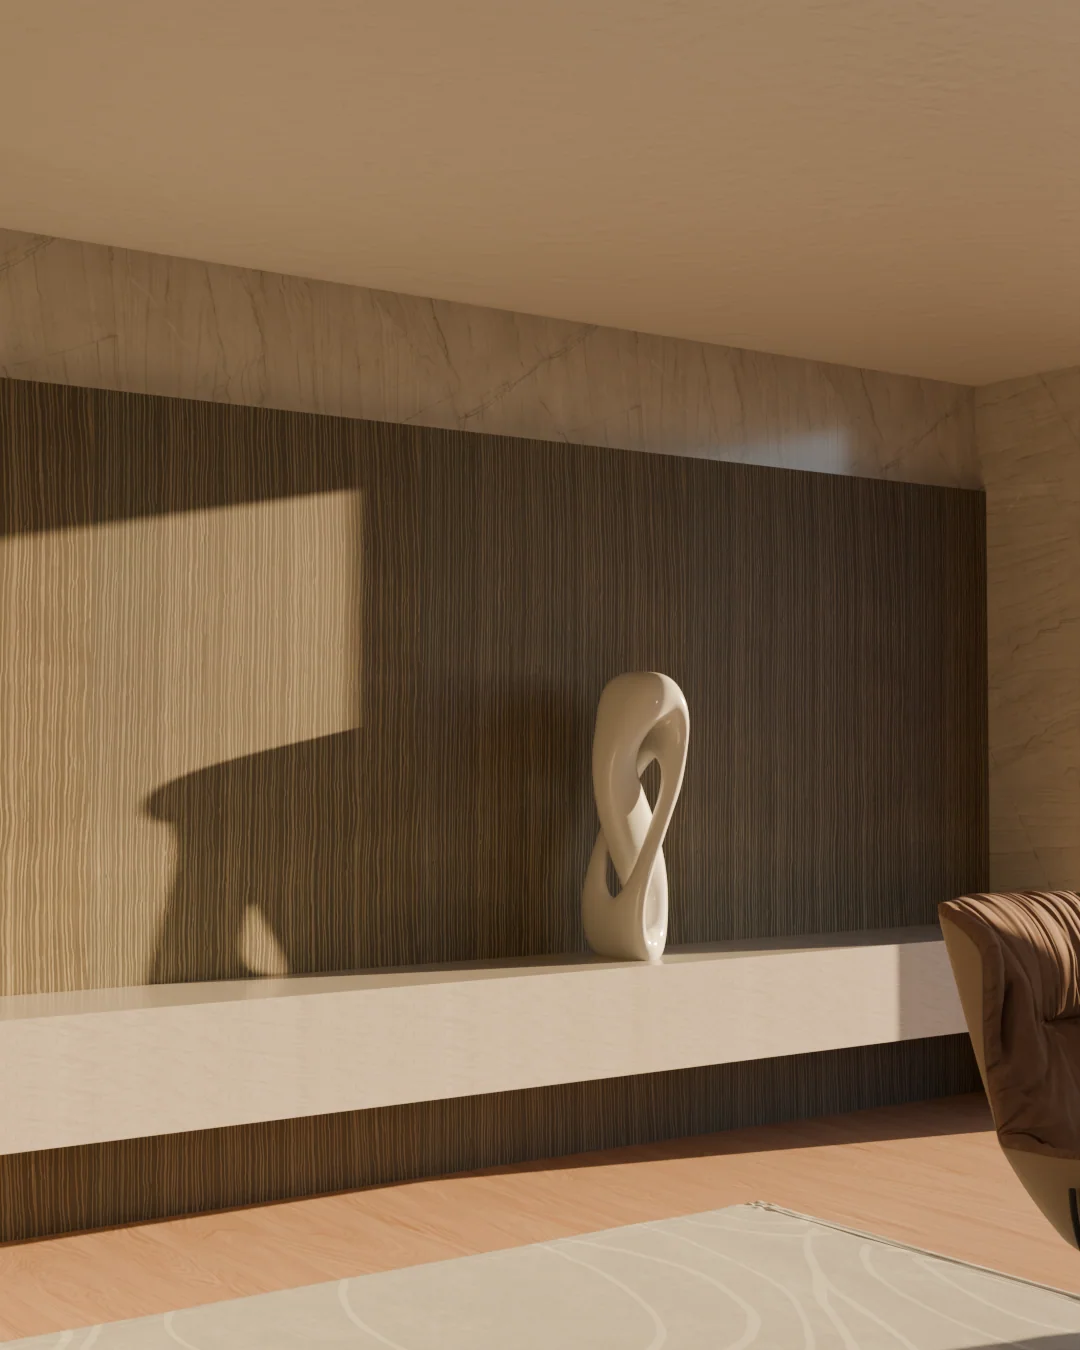
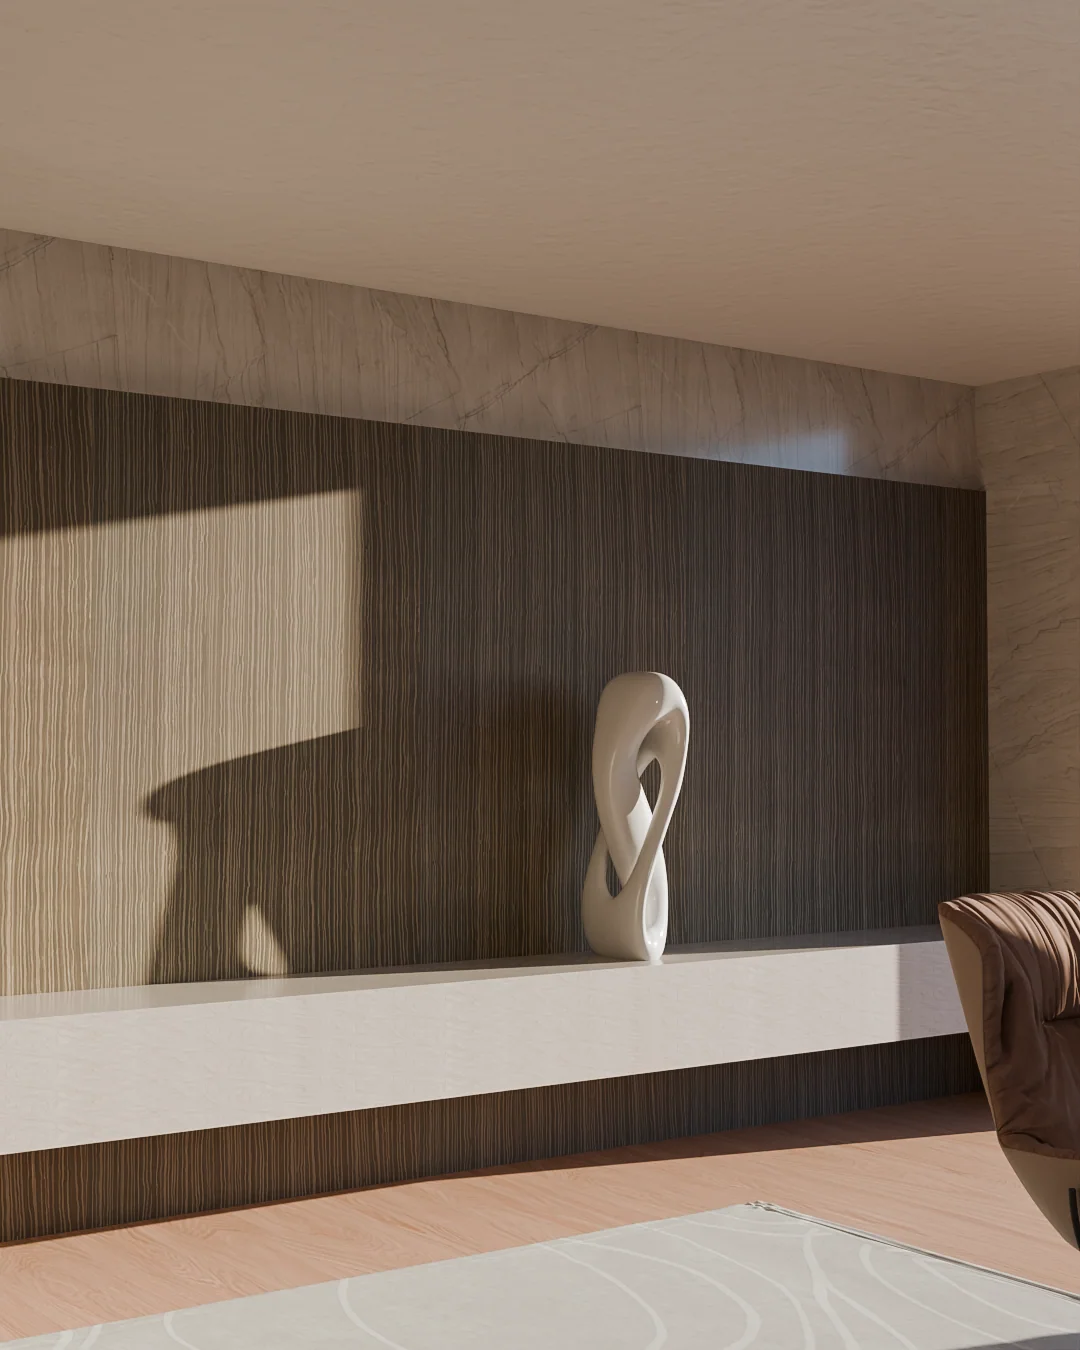
Publish five veneers and retouch Nero Ebony's room
Zurich Amethyst, Berlin Terra Line Oak, Berlin Ebony Charcoal, Athens
Mink Walnut and Athens Bark Walnut get their sheet and room views.
Berlin Nero Ebony keeps its sheet and has its three room images replaced
with the retouched renders; the manifest token moves with them, so a
visitor who saw the old ones is not served them from cache.

diff --git a/src/data.js b/src/data.js
@@ -78,6 +78,7 @@ export const PRODUCTS = [
     species: 'American Black Walnut (Juglans nigra)',
     idSpecies: 'Walnut Hitam Amerika (Juglans nigra)',
     image: '/assets/image/ATHENS BARK WALNUT.webp',
+    hiResImage: '/assets/hires/ATHENS BARK WALNUT.png',
     cutMethod: 'Rift-cut, grey-washed',
     cutMethod: 'Flat-cut',
     idCutMethod: 'Potongan flat',
@@ -553,6 +554,7 @@ export const PRODUCTS = [
     cut: 'Rift walnut',
     species: 'European Walnut (Juglans regia)',
     image: '/assets/image/ATHENS MINK WALNUT.webp',
+    hiResImage: '/assets/hires/ATHENS MINK WALNUT.png',
     cutMethod: 'Rift-cut',
     bestFor: 'Minimalist spaces, custom built-ins, high-end millwork',
     finish: 'Hand-rubbed oil',
@@ -1287,6 +1289,7 @@ export const PRODUCTS = [
     species: 'Macassar Ebony (Diospyros celebica)',
     idSpecies: 'Eboni Makassar (Diospyros celebica)',
     image: '/assets/image/BERLIN EBONY CHARCOAL.webp',
+    hiResImage: '/assets/hires/BERLIN EBONY CHARCOAL.png',
     cutMethod: 'Rift-cut, stained',
     idCutMethod: 'Potongan rift, diwarnai',
     bestFor: 'Modern corporate interiors, sleek casework, luxury residential',
@@ -1813,6 +1816,7 @@ export const PRODUCTS = [
     species: 'Engineered Wood',
     idSpecies: 'Kayu Rekayasa',
     image: '/assets/image/BERLIN TERRA LINE OAK.webp',
+    hiResImage: '/assets/hires/BERLIN TERRA LINE OAK.png',
     cutMethod: 'Embossed/Textured',
     idCutMethod: 'Timbul/Bertekstur',
     bestFor: 'Tactile bar fronts, avant-garde interiors, feature paneling',
@@ -3715,6 +3719,7 @@ export const PRODUCTS = [
     species: 'Engineered Wood',
     idSpecies: 'Kayu Rekayasa',
     image: '/assets/image/ZURICH AMETHYST.webp',
+    hiResImage: '/assets/hires/ZURICH AMETHYST.png',
     cutMethod: 'Reconstituted, dyed',
     idCutMethod: 'Reconstituted, dyed',
     bestFor: 'Playful retail environments, creative office spaces, unique acoustic paneling',
